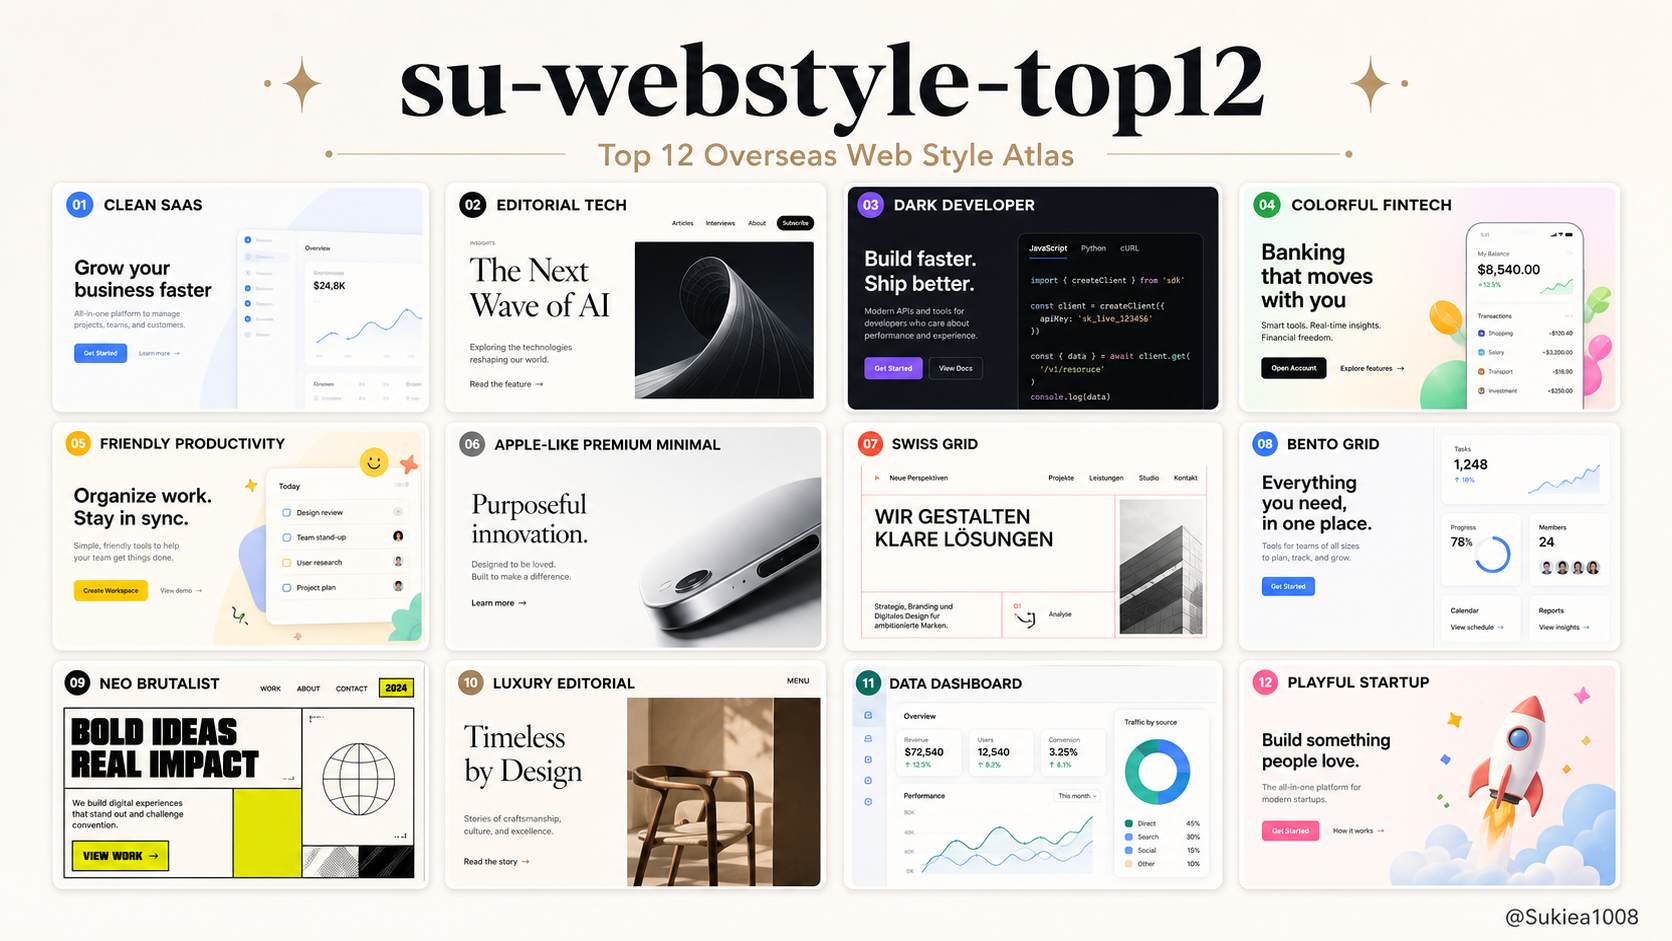
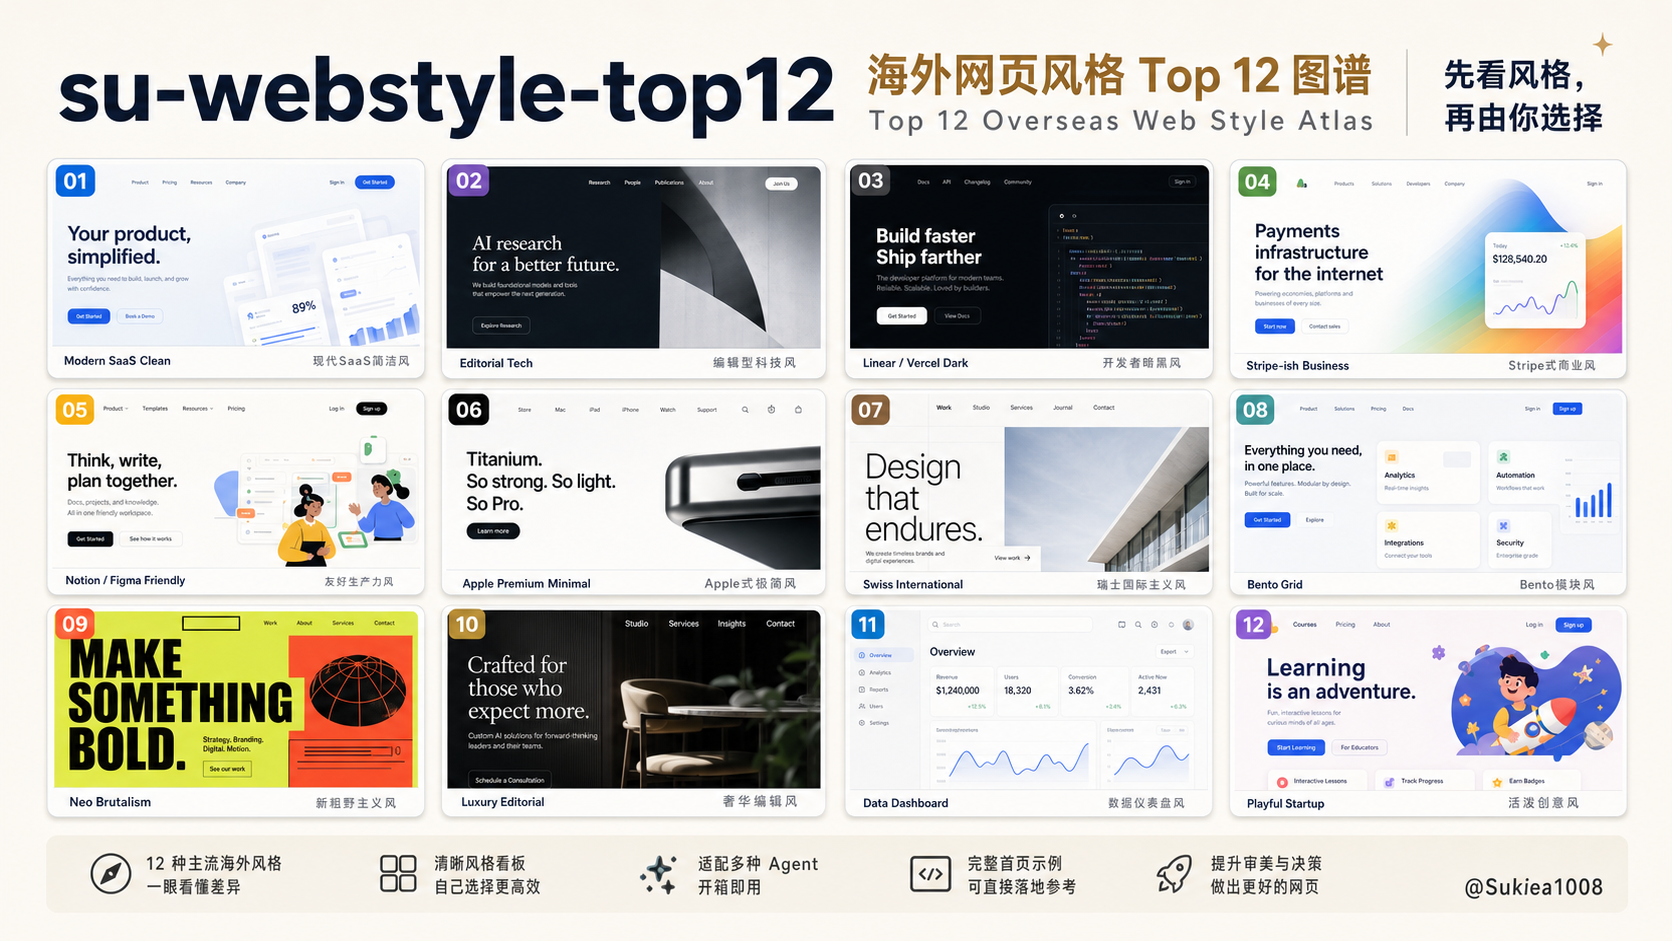
Add bilingual README and promo images

diff --git a/README.md b/README.md
@@ -1,67 +1,71 @@
 # su-webstyle-top12
 
-Top 12 overseas web style atlas for Codex, Claude Code, and other agentic coding tools.
+海外网页风格 Top 12 图谱 Skill，适用于 Codex、Claude Code 和其他 Agent 编程工具。
 
-This is not a template pack that forces a design decision. It is an open style atlas: agents list clear visual directions first, then the user chooses the style they want.
+它不是一个替用户拍板的模板包，而是一个开放风格图谱：**Agent 先列出风格，用户自己选择，然后再落地产出。**
+
+Top 12 overseas web style atlas for Codex, Claude Code, and other agentic coding tools. It lists clear style directions first, then lets the user choose.
 
 ![Top 12 Overseas Web Style Atlas](assets/promo-01-style-atlas.png)
 
-## What It Does
+## 它能做什么
 
-`su-webstyle-top12` helps an agent:
+`su-webstyle-top12` 可以帮助 Agent：
 
-- show the user 12 mainstream overseas web design styles
-- explain the difference between styles in plain language
-- generate a visual style board for self-selection
-- apply a selected style to a complete homepage or landing page
-- support Codex, Claude Code, and other agents through portable Markdown instructions
+- 列出 12 种海外主流网页设计风格
+- 用简单语言解释每种风格的区别
+- 生成可视化风格看板，方便用户自选
+- 在用户选定风格后，生成完整首页或 landing page
+- 通过 Markdown 指令适配 Codex、Claude Code 和其他 Agent
 
-The default behavior is user-controlled:
+默认原则：
 
-> list styles first, let the user choose, then produce.
+> 先列风格，让用户选，再开始产出。
 
 ![How it works](assets/promo-02-how-it-works.png)
 
-## Top 12 Styles
+## Top 12 风格
 
-| # | Style | Best for | Feel |
+| # | 风格 | 适合场景 | 气质 |
 |---|---|---|---|
-| 01 | Modern SaaS Clean | SaaS, AI tools, B2B | clean, soft, professional |
-| 02 | Editorial Tech | AI labs, research, premium services | intelligent, magazine-like |
-| 03 | Linear / Vercel Dark | APIs, infra, developer tools | technical, sharp, calm |
-| 04 | Stripe-ish Business | fintech, platforms, commerce | colorful, commercial |
-| 05 | Notion / Figma Friendly | productivity, creators, education | approachable, smart |
-| 06 | Apple Premium Minimal | hardware, flagship products | premium, precise |
-| 07 | Swiss International | studios, culture, portfolios | rational, design-literate |
-| 08 | Bento Grid | multi-feature SaaS, AI tools | modular, scannable |
-| 09 | Neo Brutalism | campaigns, youth brands | bold, loud |
-| 10 | Luxury Editorial | premium brands, consulting, art | refined, tactile |
-| 11 | Data Dashboard | analytics, ops, research tools | practical, dense |
-| 12 | Playful Startup | education, community, consumer | bright, expressive |
+| 01 | Modern SaaS Clean / 现代 SaaS 简洁风 | SaaS、AI 工具、B2B | 干净、柔和、专业 |
+| 02 | Editorial Tech / 编辑型科技风 | AI 实验室、研究机构、高端服务 | 聪明、杂志感、内容感 |
+| 03 | Linear / Vercel Dark / 开发者暗黑风 | API、基础设施、开发者工具 | 技术、克制、锋利 |
+| 04 | Stripe-ish Business / Stripe 式商业风 | 金融科技、平台、商业工具 | 国际化、商业、彩色 |
+| 05 | Notion / Figma Friendly / 友好生产力风 | 协作、创作者、教育 | 亲和、聪明、轻办公 |
+| 06 | Apple Premium Minimal / Apple 式极简高级风 | 硬件、旗舰产品、高端软件 | 高级、精准、克制 |
+| 07 | Swiss International / 瑞士国际主义风 | 设计机构、文化项目、作品集 | 理性、网格、设计感 |
+| 08 | Bento Grid / Bento 模块风 | 多功能 SaaS、AI 产品 | 模块化、好扫读 |
+| 09 | Neo Brutalism / 新粗野主义风 | 活动、年轻品牌、实验项目 | 大胆、抓眼、有态度 |
+| 10 | Luxury Editorial / 奢华编辑风 | 高端品牌、咨询、艺术 | 克制、精致、有质感 |
+| 11 | Data Dashboard / 数据仪表盘风 | 数据分析、运营后台、投研工具 | 实用、高密度、可信 |
+| 12 | Playful Startup / 活泼创业风 | 教育、社区、消费产品 | 明亮、年轻、表达性强 |
 
-## Example Outputs
+## 直接产出示例
 
-The skill can produce complete homepage directions after the user chooses a style. These examples include Modern SaaS Clean, Luxury Editorial, and Bento Dashboard.
+用户选定风格后，这个 skill 可以把风格落到完整首页方向。下面示例包含 Modern SaaS Clean、Luxury Editorial 和 Bento Dashboard。
+
+The website mockups keep English UI copy to preserve the overseas web feel; Chinese explanations are used in the surrounding README and promo materials for Chinese-speaking users.
 
 ![Output examples](assets/promo-03-output-examples.png)
 
-## Install
+## 安装
 
 ### Codex
 
-Copy this folder into your Codex skills directory:
+复制到 Codex skills 目录：
 
 ```bash
 cp -R su-webstyle-top12 ~/.codex/skills/
 ```
 
-Then prompt naturally:
+自然语言使用：
 
 ```text
 列出海外主流网页风格，我想自己选。
 ```
 
-or:
+或者：
 
 ```text
 用 su-webstyle-top12，给我一个网页风格看板。
@@ -69,54 +73,60 @@ or:
 
 ### Claude Code
 
-Copy this folder into your Claude skills directory:
+复制到 Claude skills 目录：
 
 ```bash
 cp -R su-webstyle-top12 ~/.claude/skills/
 ```
 
-Invoke directly:
+显式调用：
 
 ```text
 /su-webstyle-top12 show me the web style atlas
 ```
 
-Claude may also auto-use it when your request clearly asks for overseas web style options or a landing page visual direction.
+当你的请求明显是在要海外网页风格、landing page 视觉方向或风格看板时，Claude Code 也可能自动使用它。
 
-### Generic Agents
+### 通用 Agent
 
-Use:
+可以使用：
 
-- `SKILL.md` for Agent Skills-compatible tools
-- `AGENTS.md` for generic coding agents
-- `CLAUDE.md` for Claude Code projects
-- `adapters/cursor-rule.md` for Cursor-style rules
+- `SKILL.md`：Agent Skills 兼容工具
+- `AGENTS.md`：通用 coding agent
+- `CLAUDE.md`：Claude Code 项目
+- `adapters/cursor-rule.md`：Cursor / IDE Agent 规则
 
-## Usage Patterns
+## 用法示例
 
-Browse styles:
+浏览风格：
 
 ```text
 列出海外主流网页风格。
 ```
 
-Self-select from a board:
+生成看板后自选：
 
 ```text
 给我一个 Top 12 网页风格看板，我自己选。
 ```
 
-Ask for shortlist only when wanted:
+需要 Agent 辅助 shortlist 时：
 
 ```text
 我做的是 AI 数据分析产品，你帮我 shortlist 3 个适合的海外网页风格。
 ```
 
-Produce after selection:
+选定后直接产出：
 
 ```text
 用 10 Luxury Editorial 做一个完整首页，品牌是一个高端 AI 顾问工作室。
 ```
+
+## 中文设计说明
+
+这个 skill 面向中文用户友好，但网页样例中的 UI 文案默认可以保持英文，以维持海外网页调性。中文内容适合用于说明、README、教程、风格解释和外层宣传图。
+
+本仓库不包含字体文件。实际生成网页或视觉稿时，请根据项目环境自行配置可用字体。
 
 ## Project Structure
 
@@ -140,6 +150,26 @@ su-webstyle-top12/
 └── adapters/
     └── cursor-rule.md
 ```
+
+## English Summary
+
+`su-webstyle-top12` is a portable Agent Skill for presenting and applying 12 mainstream overseas web design styles.
+
+It helps agents:
+
+- show a Top 12 web style menu
+- generate a reusable visual style board
+- let the user choose instead of over-deciding
+- apply the selected style to a complete homepage or landing page
+- work across Codex, Claude Code, and generic Markdown-driven agents
+
+Default workflow:
+
+1. List/show styles.
+2. Let the user choose.
+3. Produce only after the style is selected.
+
+The repository does not include font files.
 
 ## Creator Mark
 

diff --git a/SKILL.md b/SKILL.md
@@ -54,7 +54,13 @@ Even then, give 2-3 candidates with tradeoffs. Do not make a final decision unle
 
 - Public promo assets and bundled sample boards may include a small creator mark: `@Sukiea1008`.
 - Do not add `@Sukiea1008` to ordinary user outputs unless the user asks.
-- The hidden easter egg text `Su姐牛逼` is allowed only in this repository's own promotional/sample images, as tiny background microcopy. Never add it to normal user deliverables.
+- The hidden easter egg text `Su NB` is allowed only in this repository's own promotional/sample images, as extremely tiny background microcopy. Never add it to normal user deliverables.
+
+## Chinese Audience Notes
+
+- For Chinese-facing documentation, tutorials, and promo images, use Chinese explanations first and English as supporting labels.
+- For website mockups and style samples, English UI copy may be kept to preserve the overseas web design tone.
+- This repository does not include font files.
 
 ## Style Names
 

diff --git a/references/output-patterns.md b/references/output-patterns.md
@@ -41,5 +41,11 @@ The repository uses three promotional images:
 
 Rules:
 - Include `@Sukiea1008` as a small visible creator mark.
-- The hidden microcopy `Su姐牛逼` may appear only as tiny easter egg text in these promo/sample images.
+- The hidden microcopy `Su NB` may appear only as extremely tiny easter egg text in these promo/sample images.
 - Keep promo images polished enough for README and social posts.
+
+## Chinese-Facing Outputs
+
+- Use Chinese for outer explanations, README visuals, tutorial captions, and usage guidance.
+- Keep website mockup UI text in English when the goal is to preserve an overseas/international website tone.
+- This repository does not bundle font files.
